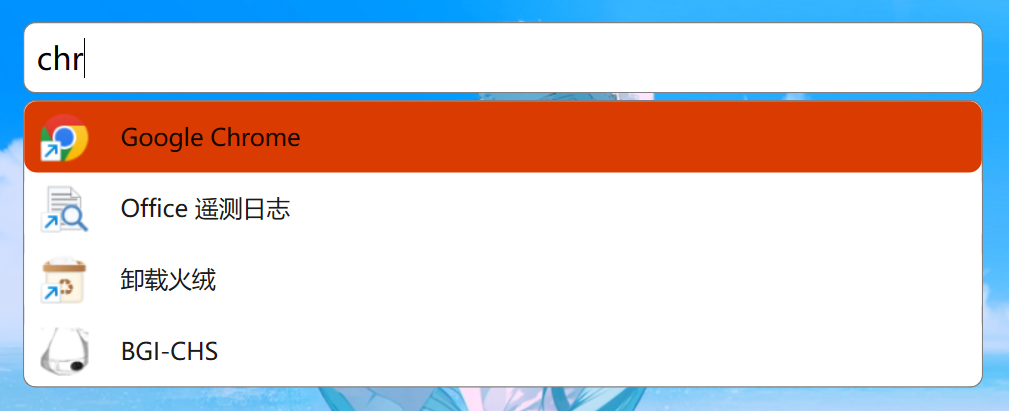
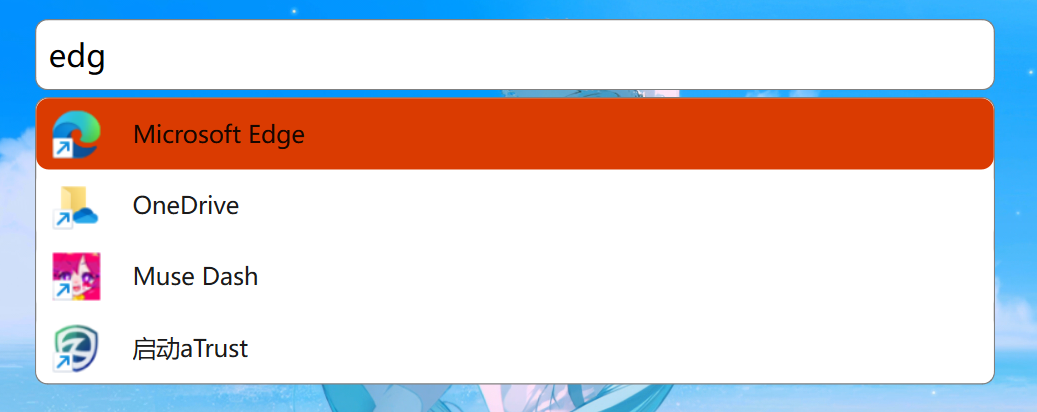
更新程序的图片

Changed region(s): [[0.0, 0.0292, 1.0, 1.0], [0.1229, 0.4672, 0.3072, 0.5547]]

diff --git a/model/database.cpp b/model/database.cpp
@@ -205,8 +205,12 @@ double Database::calculateCompatibility(const ProgramNode &node, const std::wstr
 double Database::calculateKMP(const std::wstring &compareName, const std::wstring &inputValue)
 {
     double ret { 0 };
-    if (compareName.starts_with(inputValue)) {
-        ret = inputValue.size();
+    for (int i = 0; i < compareName.size() && i < inputValue.size(); i ++) {
+        if (compareName[i] == inputValue[i]) {
+            ret ++;
+        } else {
+            break;
+        }
     }
     return ret;
 }

diff --git a/doc/设置界面展示.md b/doc/设置界面展示.md
@@ -1,0 +1,10 @@
+本文档展示设置界面的其他的4个标签页的内容。
+
+![](https://raw.githubusercontent.com/ghost-him/ZeroLaunch-CPP/main/assets/setting.png)
+
+![](https://raw.githubusercontent.com/ghost-him/ZeroLaunch-CPP/main/assets/setting2.png)
+
+![](https://raw.githubusercontent.com/ghost-him/ZeroLaunch-CPP/main/assets/setting3.png)
+
+![](https://raw.githubusercontent.com/ghost-him/ZeroLaunch-CPP/main/assets/setting4.png)
+
